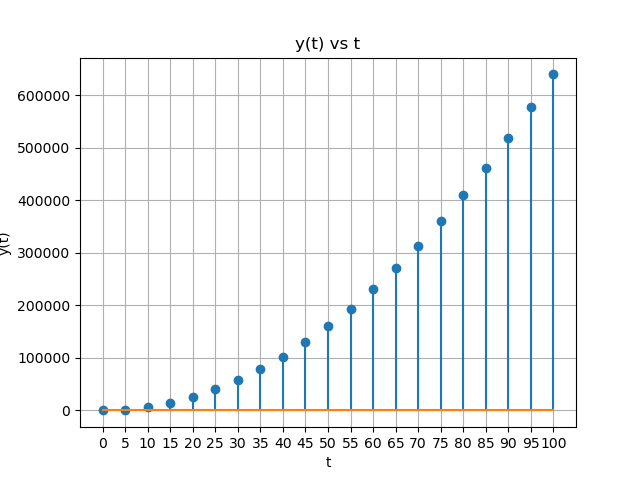
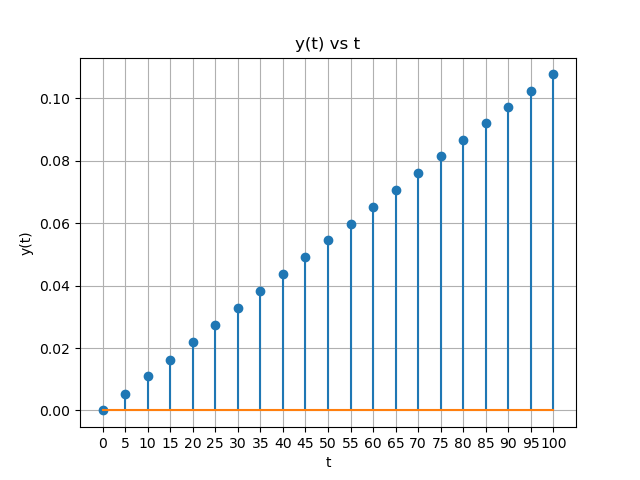
Add files via upload

diff --git a/assign4/assign4.tex b/assign4/assign4.tex
@@ -72,10 +72,14 @@
  x\brak{t}&=\sum_{n=-\infty}^{\infty}c_ne^\frac{j\;2\pi n\;t}{100}
 \\ y\brak{t}&=x\brak{4t}
 \\ y\brak{t}&=\sum_{n=-\infty}^{\infty}c_ne^\frac{j\;2\pi n\;\brak{4t}}{100}
-\\&=\sum_{n=-\infty}^{\infty}c_ne^\frac{j\;8\pi n\;t}{100}
-\\T_1&=\frac{2\pi}{\omega_0}
-\\&=\frac{2\pi}{\frac{8\pi}{100}}
-\\&=\frac{100}{4}
-\\&=25\text{sec}
+\\&=\sum_{n=-\infty}^{\infty}c_ne^\frac{j\;2\pi n\;t}{25}
+\\T_1&=25\text{sec}
  \end{align}
+\begin{figure}[h]
+ \renewcommand\thefigure{1}
+    \centering
+    \includegraphics[width=1\linewidth]{/root/assign4/figs/fig_plot.png}
+    \caption{plot y\brak{t} v/s t}
+    \label{fig:enter-label}
+\end{figure}
 \end{document}

diff --git a/assign4/codes/data_gen.c b/assign4/codes/data_gen.c
@@ -5,7 +5,7 @@
 double x(double t) {
     double period = 100.0;  // Fundamental period of x(t) in seconds
     double normalized_t = fmod(t, period);  // Normalize t within one period
-    return normalized_t * normalized_t;  // Example function: t^2
+    return sin(2 * M_PI * normalized_t / period);  // Corrected sine function
 }
 
 int main() {
@@ -36,4 +36,3 @@ int main() {
 
     return 0;
 }
- 
